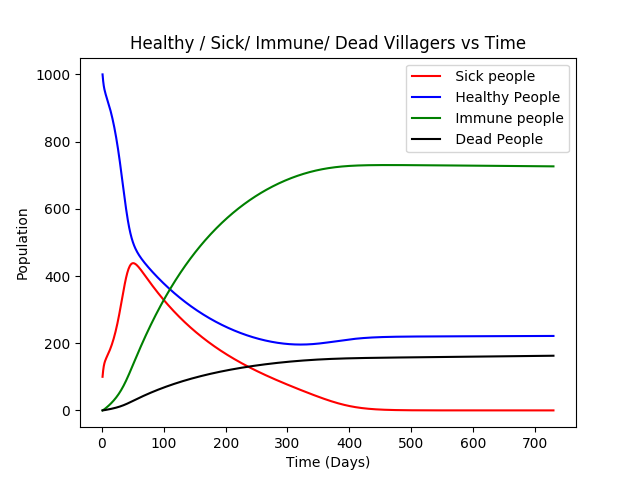
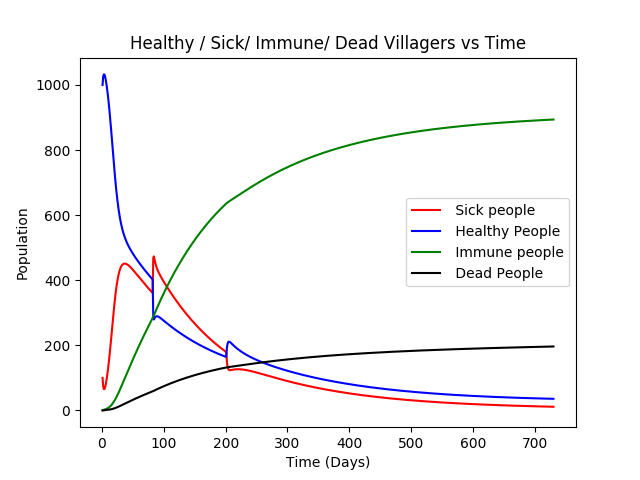
Updated seasonal birth rates

diff --git a/sim_function.py b/sim_function.py
@@ -10,8 +10,8 @@ import numpy as np
 #     + Recovered in this time step
 #     - Deaths of currently healthy Villagers
 #     - Infected in this time step
-def Healthy_Villagers ( i, hV, sV, brV, drV, rrV, M, iM, brfM ) :
-    hV[i+1] = hV[i] + (hV[i] * brV) + (sV[i] * rrV) - (hV[i] * drV) - (hV[i] * brfM * (iM[i] / M[i]))
+def Healthy_Villagers ( i, hV, sV, V,brV, drV, rrV, M, iM, brfM ) :
+    hV[i+1] = hV[i] + (V[i] * brV) + (sV[i] * rrV) - (hV[i] * drV) - (hV[i] * brfM * (iM[i] / M[i]))
 
 
 # TODO: Update current sick villagers
@@ -49,7 +49,7 @@ def Healthy_Mosquitoes ( i, V, sV, M, hM, brM, drM, brfM ) :
 #     + Infected in this time step
 #     - Deaths of currently infected Mosquitoes
 def Infected_Mosquitoes ( i, V, sV, hM, iM, drM, brfM ) :
-  iM[i+1] = (1 + brfM*(sV[i]/V[i]) - drM)*iM[i]
+  iM[i+1] = (1  - drM)*iM[i]  + brfM*(sV[i]/V[i]) * hM[i]
 
 def sim(params):
 	# Model parameters
@@ -105,11 +105,18 @@ def sim(params):
 
 	death_count = [0]*(N+1)
 	for i in range(N):
-	    if(i < 80 or i > 200):
-	    	brM = params['brM'] * 4
+	    if(i > 80 and i < 200):
+	    	brM = params['brM'] * 10
+	    	drM = params['drM'] * 7
+	    	brfM = params['brfM'] * 2
+	    else:
+	    	brM = params['brM']
+	    	drM = params['drM'] 
+	    	brfM = params['brfM']
+
 	    t[i+1] = t[i] + time_step
 	    
-	    Healthy_Villagers ( i, hV, sV, brV, drV, rrV, M, iM, brfM )
+	    Healthy_Villagers ( i, hV, sV,V, brV, drV, rrV, M, iM, brfM )
 	    
 	    Sick_Villagers ( i, hV, sV, rrV, irV, drV, midrV, M, iM, brfM )
 	    
@@ -133,53 +140,55 @@ def sim(params):
 
 def main():
 	colors= ['r','b','g', 'm']
+	
+	i=0
 	plt.figure()
-	for i in range(1):
-		params = {}
-		params['start_time'] = 1      # in days
-		params['end_time'] =730        # in days
-		params['hM'] = 5000   # starting number of healthy Mosquitoes 
-		params['iM'] = 1000     # starting number of infected Mosquitoes 
-		params['hV'] = 1000   # starting number of healthy Villagers
-		params['sV'] = 100       # starting number of sick Villagers
-		params['iV'] = 0    # starting number of immune Villagers
+	
+	params = {}
+	params['start_time'] = 1      # in days
+	params['end_time'] =730        # in days
+	params['hM'] = 500000   # starting number of healthy Mosquitoes 
+	params['iM'] = 10000     # starting number of infected Mosquitoes 
+	params['hV'] = 1000   # starting number of healthy Villagers
+	params['sV'] = 100       # starting number of sick Villagers
+	params['iV'] = 0    # starting number of immune Villagers
 	
 			# Villager rate parameters
-		params['brV'] =  0.019       # birth rate of Villagers
-		params['drV'] =  0.008      # death rate of Villagers
-		params['midrV'] = 0.0019986      # malaria induced death rate of Villagers
-		params['rrV']  = 0.3        # recovery rate of Villagers
-		params['irV']  = 0.01         # immunity rate of Villagers
+	params['brV'] =  0.019       # birth rate of Villagers
+	params['drV'] =  0.008      # death rate of Villagers
+	params['midrV'] = 0.0019986      # malaria induced death rate of Villagers
+	params['rrV']  = 0.3        # recovery rate of Villagers
+	params['irV']  = 0.01         # immunity rate of Villagers
 
 	# Mosquito rate parameters
-		params['brM']  =0.01         # birth rate of Mosquitoes
-		params['drM']  =0.01      # death rate of Mosquitoes
-		params['brfM'] =0.3       # bite rate from Mosquitoes
+	params['brM']  =0.01         # birth rate of Mosquitoes
+	params['drM']  =0.01      # death rate of Mosquitoes
+	params['brfM'] =0.3       # bite rate from Mosquitoes
 
-		t, hV, sV, iV, hM, iM, DC = sim(params)
-		plt.title('Healthy / Sick/ Immune/ Dead Villagers vs Time')
-		plt.ylabel('Population')
-		plt.xlabel('Time (Days)')
-		plt.plot(t,sV, color=colors[i],label =" Sick people" )
-		plt.plot(t,hV,  color=colors[i+1],label = " Healthy People" )
-		plt.plot(t,iV, color=colors[i+2],label = " Immune people" )
-		plt.plot(t,DC, color='black', label=" Dead People")
-		plt.legend()
-		plt.show()
+	t, hV, sV, iV, hM, iM, DC = sim(params)
+	plt.title('Healthy / Sick/ Immune/ Dead Villagers vs Time')
+	plt.ylabel('Population')
+	plt.xlabel('Time (Days)')
+	plt.plot(t,sV, color=colors[i],label =" Sick people" )
+	plt.plot(t,hV,  color=colors[i+1],label = " Healthy People" )
+	plt.plot(t,iV, color=colors[i+2],label = " Immune people" )
+	plt.plot(t,DC, color='black', label=" Dead People")
+	plt.legend()
+	plt.show()
 		# print("Death Counter: ", DC)
-		plt.figure()
-		plt.title('Healthy/Infected Mosquitoes vs Time')
-		plt.ylabel('Mosquitoes')
-		plt.xlabel('Time (Days)')
+	plt.figure()
+	plt.title('Healthy/Infected Mosquitoes vs Time')
+	plt.ylabel('Mosquitoes')
+	plt.xlabel('Time (Days)')
 
-		plt.plot(t, hM, label = "Healthy Mosquitoes" )
-		plt.plot(t, iM, color="red", label = "Infected Mosquitoes ")
+	plt.plot(t, hM, label = "Healthy Mosquitoes" )
+	plt.plot(t, iM, color="red", label = "Infected Mosquitoes ")
 
-		plt.legend(loc='center right')
+	plt.legend(loc='center right')
 
-		plt.minorticks_on()
+	plt.minorticks_on()
 
-		plt.show()
+	plt.show()
 		
 	
 	# plt.show()
